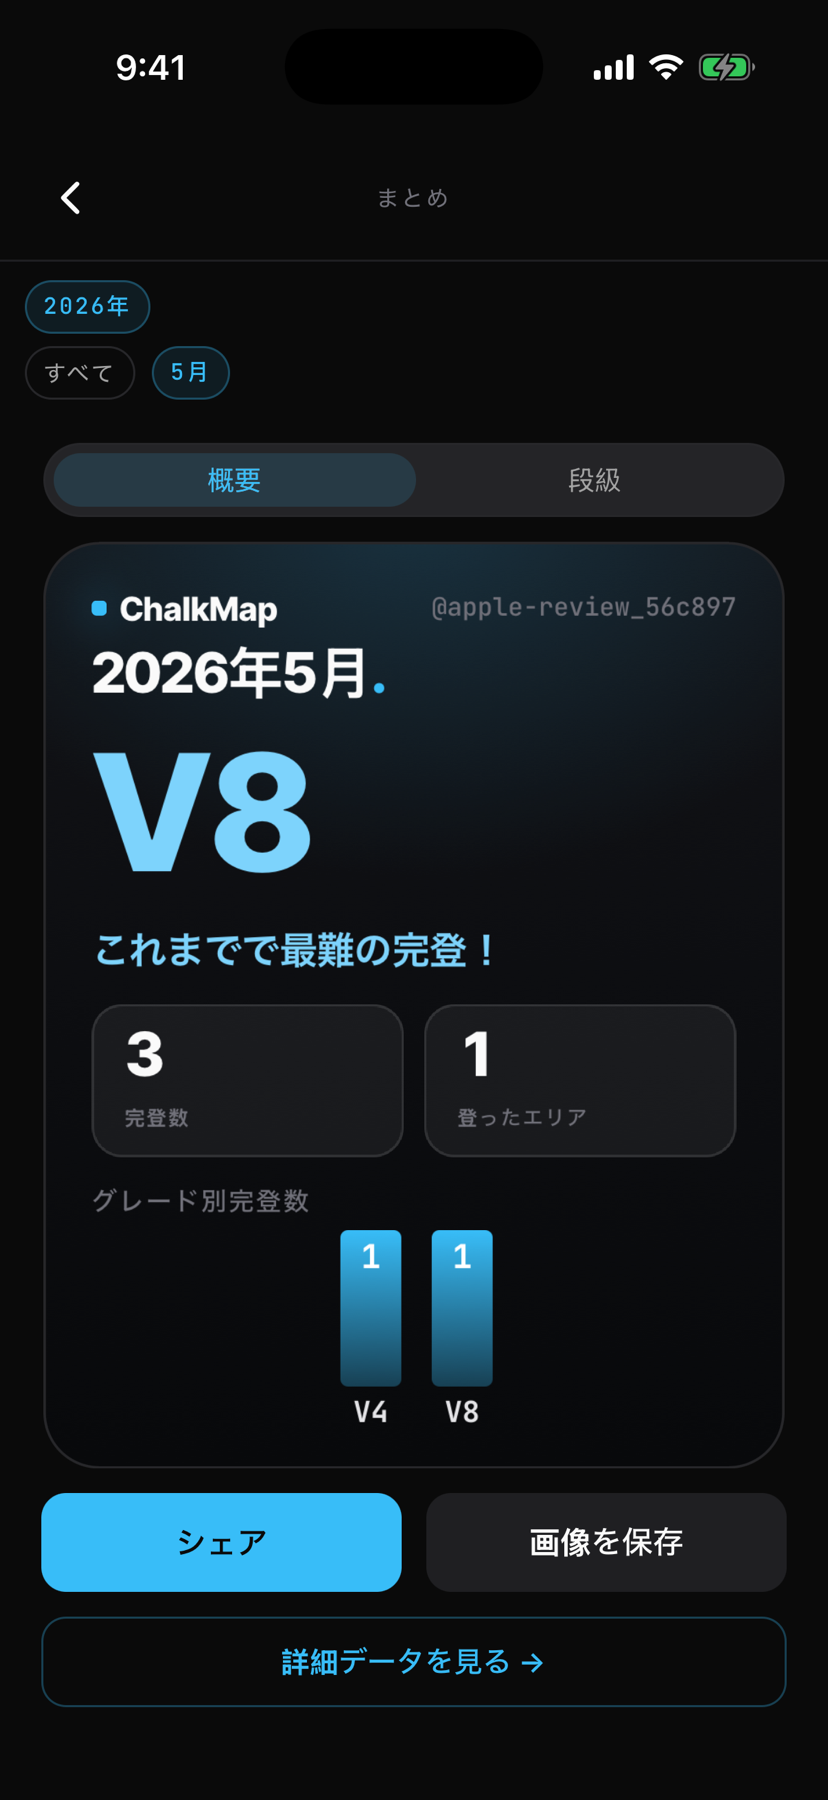
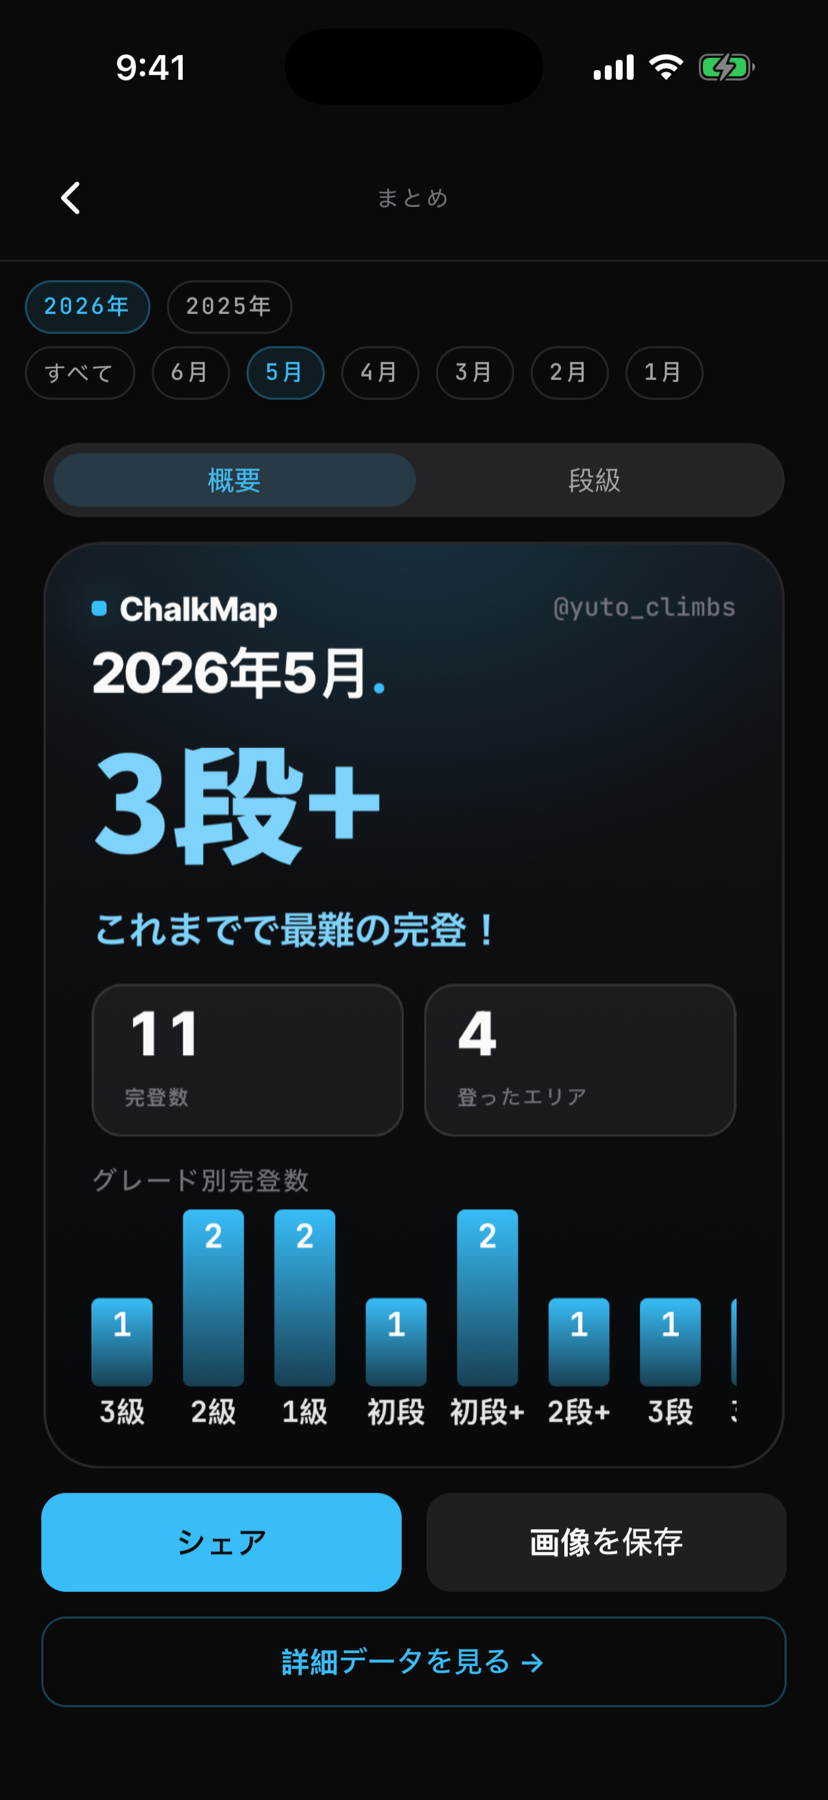
site: copy + UX pass (Google Play, JA 段級 shots, responsive breaks, no em dashes, app-aligned FAQ)
- WHY: market-generic payoff + 'the home your beta never had'
- Hero CTA: add Google Play button (Coming Soon, mirrors App Store)
- In-app rail: JA screenshots now use 段級 grading (recap 3段+, line 公式2段), matching the app
- Line breaks: responsive language-aware auto-balance (text-wrap balance/pretty + JA kinsoku/auto-phrase)
- Copy fixes: クライミングエリアへのリスペクト, みなさん, 着地→下地 (x3)
- Remove ALL em dashes site-wide (EN + JA)
- FAQ: de-conflate creator vs establisher; align to app terms (creator/作成者, co-establisher/共同開拓者, guest/ゲスト, establisher/開拓者, FA/初登者, Manage Access)

diff --git a/index.html b/index.html
@@ -3,12 +3,12 @@
 <head>
   <meta charset="UTF-8">
   <meta name="viewport" content="width=device-width, initial-scale=1.0">
-  <title>ChalkMap — The hub for outdoor bouldering</title>
-  <meta name="description" content="Every crag, problem, and beta in one place — kept current by the community, with establishers in control.">
+  <title>ChalkMap: The hub for outdoor bouldering</title>
+  <meta name="description" content="Every crag, problem, and beta in one place, kept current by the community, with establishers in control.">
   <link rel="icon" type="image/png" href="assets/images/chalkmap_logo.png">
   <link rel="apple-touch-icon" href="https://chalkmap.com/apple-touch-icon.png">
-  <meta property="og:title" content="ChalkMap — The hub for outdoor bouldering">
-  <meta property="og:description" content="Every crag, problem, and beta in one place — kept current by the community, with establishers in control.">
+  <meta property="og:title" content="ChalkMap: The hub for outdoor bouldering">
+  <meta property="og:description" content="Every crag, problem, and beta in one place, kept current by the community, with establishers in control.">
   <meta property="og:image" content="https://chalkmap.com/assets/images/og-icon-basshi.png">
   <meta property="og:url" content="https://chalkmap.com/">
   <meta property="og:type" content="website">
@@ -53,12 +53,17 @@
       <img src="assets/images/chalkmap_logo.png" alt="ChalkMap" class="hero-logo">
       <h1>ChalkMap<span class="dot">.</span></h1>
       <p class="tagline" data-en="The hub for outdoor bouldering" data-ja="外岩ボルダリングの情報を、ひとつの場所に。"></p>
-      <p class="subtitle" data-en="Every crag, every problem, every bit of local knowledge — in one place, kept current by the community." data-ja="エリアも、課題も、登り方も。クライマーの手で集めて、いつも最新に。"></p>
-      <p class="description" data-en="Outdoor bouldering info is scattered across guidebooks, posts, videos, and people's memories — so it's needlessly hard to find boulders, know which line is right, or judge the risk before you pull on. ChalkMap brings it together: discover crags on a map, see community-consensus grades and beta with the original send videos, and log your own climbs — while establishers keep full control of what's public and what stays private." data-ja="外岩の情報は、トポやSNS、動画、人づての話に散らばっていて、行きたい課題を探すのも、どのラインが正解なのか確かめるのも、取り付く前に危険かどうか判断するのも、意外と大変です。ChalkMapは、その情報をひとつの場所にまとめるアプリ。地図でエリアを探し、みんなの体感グレードや登り方、完登動画をまとめて確認できて、自分の完登も記録できます。どの情報を公開し、どれを非公開のままにするかは、開拓者がすべて自分で決められます。"></p>
+      <p class="subtitle" data-en="Every crag, every problem, every bit of local knowledge, all in one place, kept current by the community." data-ja="エリアも、課題も、登り方も。クライマーの手で集めて、いつも最新に。"></p>
+      <p class="description" data-en="Outdoor bouldering info is scattered across guidebooks, posts, videos, and people's memories, so it's needlessly hard to find boulders, know which line is right, or judge the risk before you pull on. ChalkMap brings it together: discover crags on a map, see community-consensus grades and beta with the original send videos, and log your own climbs, while establishers keep full control of what's public and what stays private." data-ja="外岩の情報は、トポやSNS、動画、人づての話に散らばっていて、行きたい課題を探すのも、どのラインが正解なのか確かめるのも、取り付く前に危険かどうか判断するのも、意外と大変です。ChalkMapは、その情報をひとつの場所にまとめるアプリ。地図でエリアを探し、みんなの体感グレードや登り方、完登動画をまとめて確認できて、自分の完登も記録できます。どの情報を公開し、どれを非公開のままにするかは、開拓者がすべて自分で決められます。"></p>
       <div class="hero-buttons">
         <a href="#" class="btn btn-primary" onclick="return false;">
           <svg xmlns="http://www.w3.org/2000/svg" viewBox="0 0 24 24" fill="currentColor"><path d="M18.71 19.5c-.83 1.24-1.71 2.45-3.05 2.47-1.34.03-1.77-.79-3.29-.79-1.53 0-2 .77-3.27.82-1.31.05-2.3-1.32-3.14-2.53C4.25 17 2.94 12.45 4.7 9.39c.87-1.52 2.43-2.48 4.12-2.51 1.28-.02 2.5.87 3.29.87.78 0 2.26-1.07 3.8-.91.65.03 2.47.26 3.64 1.98-.09.06-2.17 1.28-2.15 3.81.03 3.02 2.65 4.03 2.68 4.04-.03.07-.42 1.44-1.38 2.83M13 3.5c.73-.83 1.94-1.46 2.94-1.5.13 1.17-.34 2.35-1.04 3.19-.69.85-1.83 1.51-2.95 1.42-.15-1.15.41-2.35 1.05-3.11z"/></svg>
           <span data-en="Download on the App Store" data-ja="App Storeでダウンロード"></span>
+          <span class="btn-note" data-en="(Coming Soon)" data-ja="（近日公開）"></span>
+        </a>
+        <a href="#" class="btn btn-primary" onclick="return false;">
+          <svg xmlns="http://www.w3.org/2000/svg" viewBox="0 0 512 512" fill="currentColor"><path d="M325.3 234.3L104.6 13l280.8 161.2-60.1 60.1zM47 0C34 6.8 25.3 19.2 25.3 35.3v441.3c0 16.1 8.7 28.5 21.7 35.3l256.6-256L47 0zm425.2 225.6l-58.9-34.1-65.7 64.5 65.7 64.5 60.1-34.1c18-14.3 18-46.5-1.2-60.8zM104.6 499l280.8-161.2-60.1-60.1L104.6 499z"/></svg>
+          <span data-en="Get it on Google Play" data-ja="Google Playでダウンロード"></span>
           <span class="btn-note" data-en="(Coming Soon)" data-ja="（近日公開）"></span>
         </a>
         <a href="support.html" class="btn btn-secondary">
@@ -77,9 +82,9 @@
         <h2 data-en="The home that beta never had" data-ja="ChalkMapができた理由"></h2>
       </div>
       <div class="overview-content">
-        <p data-en="If you've climbed outside, you know the feeling: you find a boulder you want to try, and the beta is spread across a guidebook, a few Instagram posts, a YouTube clip, and someone's memory — and half the time you still aren't sure you're on the right line." data-ja="外岩を登る人なら、きっと覚えがあるはずです。登りたい課題を見つけても、その情報はトポやSNS、動画、誰かの記憶の中にバラバラ。しかも、自分が本当に正しいラインを登れているのか、いまひとつ確信が持てない。"></p>
+        <p data-en="If you've climbed outside, you know the feeling: you find a boulder you want to try, and the beta is spread across a guidebook, a few Instagram posts, a YouTube clip, and someone's memory, and half the time you still aren't sure you're on the right line." data-ja="外岩を登る人なら、きっと覚えがあるはずです。登りたい課題を見つけても、その情報はトポやSNS、動画、誰かの記憶の中にバラバラ。しかも、自分が本当に正しいラインを登れているのか、いまひとつ確信が持てない。"></p>
         <br>
-        <p data-en="ChalkMap is the home that information never had. One map. One living record per problem, kept honest and current by the people who actually climb it — the kind of thing that makes you wonder why it didn't exist already." data-ja="ChalkMapは、そんな散らばった情報を「ひとつの場所」にまとめるアプリです。ひとつの地図に、課題ごとのひとつの記録。実際にそこを登る人たちの手で、正確に、最新に保たれていく。「こういうの、なんで今までなかったんだろう」——そう思ってもらえるアプリを目指しています。"></p>
+        <p data-en="ChalkMap is the home your beta never had. One map. One living record per problem, kept honest and current by the people who actually climb it. The kind of thing that just makes sense the moment you use it." data-ja="ChalkMapは、そんな散らばった情報を「ひとつの場所」にまとめるアプリです。ひとつの地図に、課題ごとのひとつの記録。実際にそこを登る人たちの手で、正確に、最新に保たれていく。「こういうの、なんで今までなかったんだろう」。そう思ってもらえるアプリを目指しています。"></p>
       </div>
     </div>
   </section>
@@ -121,35 +126,35 @@
             <svg aria-hidden="true" xmlns="http://www.w3.org/2000/svg" viewBox="0 0 512 512"><path d="M313.27 124.64L198.73 51.36a32 32 0 00-29.28.35L56.51 127.49A16 16 0 0048 141.63v295.8a16 16 0 0023.49 14.14l97.82-63.79a32 32 0 0129.5-.24l111.86 73a32 32 0 0029.27-.11l115.43-75.94a16 16 0 008.63-14.2V74.57a16 16 0 00-23.49-14.14l-98 63.86a32 32 0 01-29.24.35zM328 128v336M184 48v336" fill="none" stroke="currentColor" stroke-linecap="round" stroke-linejoin="round" stroke-width="36"/></svg>
           </div>
           <h3 data-en="Find boulders on a map" data-ja="地図でエリアと課題を探す"></h3>
-          <p data-en="Discover crags and boulders on a map built for outdoor exploration — public areas come with directions, parking, and access notes." data-ja="外岩のためにつくった地図で、行きたいエリアや課題を探せます。公開されているエリアには、行き方・駐車場・アクセスの情報もまとまっています。"></p>
+          <p data-en="Discover crags and boulders on a map built for outdoor exploration. Public areas come with directions, parking, and access notes." data-ja="外岩のためにつくった地図で、行きたいエリアや課題を探せます。公開されているエリアには、行き方・駐車場・アクセスの情報もまとまっています。"></p>
         </div>
         <div class="feature-card">
           <div class="feature-icon">
             <svg aria-hidden="true" xmlns="http://www.w3.org/2000/svg" viewBox="0 0 24 24" fill="none"><circle cx="6" cy="20" r="1.8" fill="currentColor"/><path d="M6 20 C 9 14, 14 12, 18 4" stroke="currentColor" stroke-width="1.8" stroke-linecap="round" stroke-linejoin="round"/><circle cx="18" cy="4" r="2.2" stroke="currentColor" stroke-width="1.8" fill="none"/></svg>
           </div>
           <h3 data-en="The right line, made clear" data-ja="正しいラインがひと目でわかる"></h3>
-          <p data-en="See each problem drawn on the boulder photo with start holds — plus the original send videos from YouTube and Instagram, gathered in one place." data-ja="課題はボルダーの写真の上に、ラインとスタートホールドで表示。完登動画もまとめて見られるので、どこを登るのかで迷いません。"></p>
+          <p data-en="See each problem drawn on the boulder photo with start holds, plus the original send videos from YouTube and Instagram, gathered in one place." data-ja="課題はボルダーの写真の上に、ラインとスタートホールドで表示。完登動画もまとめて見られるので、どこを登るのかで迷いません。"></p>
         </div>
         <div class="feature-card">
           <div class="feature-icon">
             <svg aria-hidden="true" xmlns="http://www.w3.org/2000/svg" viewBox="0 0 512 512"><path d="M402 168c-2.93 40.67-33.1 72-66 72s-63.12-31.32-66-72c-3-42.31 26.37-72 66-72s69 30.46 66 72z" fill="none" stroke="currentColor" stroke-linecap="round" stroke-linejoin="round" stroke-width="36"/><path d="M336 304c-65.17 0-127.84 32.37-143.54 95.41-2.08 8.34 3.15 16.59 11.72 16.59h263.65c8.57 0 13.77-8.25 11.72-16.59C463.85 335.36 401.18 304 336 304z" fill="none" stroke="currentColor" stroke-miterlimit="10" stroke-width="36"/><path d="M200 185.94c-2.34 32.48-26.72 58.06-53 58.06s-50.7-25.57-53-58.06C91.61 152.15 115.34 128 147 128s55.39 24.77 53 57.94z" fill="none" stroke="currentColor" stroke-linecap="round" stroke-linejoin="round" stroke-width="36"/><path d="M206 306c-18.05-8.27-37.93-11.45-59-11.45-52 0-102.1 25.85-114.65 76.2-1.65 6.66 2.53 13.25 9.37 13.25H154" fill="none" stroke="currentColor" stroke-linecap="round" stroke-miterlimit="10" stroke-width="36"/></svg>
           </div>
           <h3 data-en="Community-consensus grades" data-ja="みんなの体感グレード"></h3>
-          <p data-en="Original grades alongside community 'felt grades,' so you know how a problem really climbs — and hold breaks or line changes get shared as they happen." data-ja="初登時のグレードに加えて、登った人たちの体感グレードも見られます。実際の登りごたえがわかり、ホールドの欠けやラインの変化もすぐに共有できます。"></p>
+          <p data-en="Original grades alongside community 'felt grades,' so you know how a problem really climbs, and hold breaks or line changes get shared as they happen." data-ja="初登時のグレードに加えて、登った人たちの体感グレードも見られます。実際の登りごたえがわかり、ホールドの欠けやラインの変化もすぐに共有できます。"></p>
         </div>
         <div class="feature-card">
           <div class="feature-icon">
             <svg aria-hidden="true" xmlns="http://www.w3.org/2000/svg" viewBox="0 0 512 512"><path d="M85.57 446.25h340.86a32 32 0 0028.17-47.17L284.18 82.58c-12.09-22.44-44.27-22.44-56.36 0L57.4 399.08a32 32 0 0028.17 47.17z" fill="none" stroke="currentColor" stroke-linecap="round" stroke-linejoin="round" stroke-width="36"/><path d="M250.26 195.39l5.74 122 5.73-121.95a5.74 5.74 0 00-5.79-6h0a5.74 5.74 0 00-5.68 5.95z" fill="none" stroke="currentColor" stroke-linecap="round" stroke-linejoin="round" stroke-width="36"/><path d="M256 397.25a20 20 0 1120-20 20 20 0 01-20 20z"/></svg>
           </div>
           <h3 data-en="Know the risk before you pull on" data-ja="取り付く前に、危険度がわかる"></h3>
-          <p data-en="Climbers can flag how dangerous a problem is — bad landings, highballs, sketchy spots — so you can make an informed call before getting on it." data-ja="着地の悪さ、ハイボール、危ない箇所——課題のリスクを登った人が知らせてくれるので、取り付く前に自分で判断できます。"></p>
+          <p data-en="Climbers can flag how dangerous a problem is (bad landings, highballs, sketchy spots), so you can make an informed call before getting on it." data-ja="下地の悪さ、ハイボール、危ない箇所など、課題のリスクを登った人が知らせてくれるので、取り付く前に自分で判断できます。"></p>
         </div>
         <div class="feature-card">
           <div class="feature-icon">
             <svg aria-hidden="true" xmlns="http://www.w3.org/2000/svg" viewBox="0 0 24 24" fill="none"><path d="M3 19 L8 12 L12 16 L18 10 L21 19 Z" stroke="currentColor" stroke-width="1.8" stroke-linecap="round" stroke-linejoin="round"/></svg>
           </div>
           <h3 data-en="Built for establishers" data-ja="開拓者のための設計"></h3>
-          <p data-en="Log a crag once and share it on your terms. Keep crags private, invite co-establishers, and see real access data. Your crag, your call." data-ja="エリアの登録は一度だけ。公開の範囲は自分で決められます。非公開のまま使う、信頼できる人を共同開拓者として招く、実際のアクセス状況を見る——あなたのエリアは、あなたの判断で。"></p>
+          <p data-en="Log a crag once and share it on your terms. Keep crags private, invite co-establishers, and see real access data. Your crag, your call." data-ja="エリアの登録は一度だけ。公開の範囲は自分で決められます。非公開のまま使う、信頼できる人を共同開拓者として招く、実際のアクセス状況を見る。あなたのエリアは、あなたの判断で。"></p>
         </div>
         <div class="feature-card">
           <div class="feature-icon">
@@ -169,23 +174,23 @@
         <span class="kicker" data-en="For Establishers" data-ja="FOR ESTABLISHERS"></span>
         <h2 data-en="Your crag, your call" data-ja="あなたのエリアは、あなたの判断で"></h2>
       </div>
-      <p class="establisher-intro" data-en="ChalkMap exists because of establishers — the people who find, clean, and open the crags the rest of us get to climb. We built it to take the load of documenting and sharing off your shoulders, never to take control away from you." data-ja="ChalkMapは、開拓者がいてこそ成り立つアプリです。エリアを見つけ、掃除し、登れる状態にして、みんなに共有してくれる——その記録と共有の手間を、少しでも軽くしたい。そう思ってつくりました。"></p>
+      <p class="establisher-intro" data-en="ChalkMap exists because of establishers: the people who find, clean, and open the crags the rest of us get to climb. We built it to take the load of documenting and sharing off your shoulders, never to take control away from you." data-ja="ChalkMapは、開拓者がいてこそ成り立つアプリです。エリアを見つけ、掃除し、登れる状態にして、みんなに共有してくれる。その記録と共有の手間を、少しでも軽くしたい。そう思ってつくりました。"></p>
       <div class="promise-grid">
         <div class="promise-card">
           <h3 data-en="Private is a promise" data-ja="非公開は、約束です"></h3>
-          <p data-en="A crag you keep private stays completely private. Only the people you invite can see it — full stop." data-ja="非公開にしたエリアは、ずっと非公開のまま。あなたが招いた人だけが見られます。"></p>
+          <p data-en="A crag you keep private stays completely private. Only the people you invite can see it. Full stop." data-ja="非公開にしたエリアは、ずっと非公開のまま。あなたが招いた人だけが見られます。"></p>
         </div>
         <div class="promise-card">
           <h3 data-en="Open it when you're ready" data-ja="公開のタイミングは、自分で"></h3>
-          <p data-en="Make a crag public when the time is right. Invite trusted climbers as co-establishers, and see real access data — who's visiting and how often — so you can decide based on what's actually happening on the ground." data-ja="準備ができたら公開すればいい。信頼できる人を共同開拓者として招いたり、実際のアクセス状況（どれくらいの人が訪れているか）を見たりしながら、現場の様子を見て決められます。"></p>
+          <p data-en="Make a crag public when the time is right. Invite trusted climbers as co-establishers, and see real access data (who's visiting and how often), so you can decide based on what's actually happening on the ground." data-ja="準備ができたら公開すればいい。信頼できる人を共同開拓者として招いたり、実際のアクセス状況（どれくらいの人が訪れているか）を見たりしながら、現場の様子を見て決められます。"></p>
         </div>
         <div class="promise-card">
           <h3 data-en="Change your mind, safely" data-ja="非公開に戻したいときも、安心して"></h3>
-          <p data-en="Need to take a public crag back to private — say an access issue comes up? You can. To protect everyone, un-publishing a public crag goes through a quick review by our team rather than flipping instantly." data-ja="アクセスの問題が起きたなど、公開したエリアを非公開に戻したいとき。それもできます。ただ、公開済みのエリアを非公開に戻すときは、すぐに切り替わるのではなく、運営の確認をはさんでから反映されます。"></p>
+          <p data-en="Need to take a public crag back to private if an access issue comes up? You can. To protect everyone, un-publishing a public crag goes through a quick review by our team rather than flipping instantly." data-ja="アクセスの問題が起きたなど、公開したエリアを非公開に戻したいとき。それもできます。ただ、公開済みのエリアを非公開に戻すときは、すぐに切り替わるのではなく、運営の確認をはさんでから反映されます。"></p>
         </div>
         <div class="promise-card">
-          <h3 data-en="Not a topo — a tool for topos" data-ja="トポの代わりではなく、トポを支える道具に"></h3>
-          <p data-en="ChalkMap isn't a guidebook and won't replace yours. It's an information-sharing platform — and the felt-grade and access data it gathers can make keeping your own material current easier." data-ja="ChalkMapはガイドブックでも、トポの代わりでもありません。あくまで情報を共有する場所です。集まった体感グレードやアクセスの情報は、あなた自身のトポを最新に保つのにも役立ちます。"></p>
+          <h3 data-en="Not a topo, but a tool for topos" data-ja="トポの代わりではなく、トポを支える道具に"></h3>
+          <p data-en="ChalkMap isn't a guidebook and won't replace yours. It's an information-sharing platform, and the felt-grade and access data it gathers can make keeping your own material current easier." data-ja="ChalkMapはガイドブックでも、トポの代わりでもありません。あくまで情報を共有する場所です。集まった体感グレードやアクセスの情報は、あなた自身のトポを最新に保つのにも役立ちます。"></p>
         </div>
       </div>
     </div>
@@ -228,7 +233,7 @@
             <svg aria-hidden="true" xmlns="http://www.w3.org/2000/svg" viewBox="0 0 512 512"><path d="M53.12 199.94l400-151.39a8 8 0 0110.33 10.33l-151.39 400a8 8 0 01-15-.34l-67.4-166.09a16 16 0 00-10.11-10.11L53.46 215a8 8 0 01-.34-15.06zM460 52L227 285" fill="none" stroke="currentColor" stroke-linecap="round" stroke-linejoin="round" stroke-width="36"/></svg>
           </div>
           <h3 data-en="Share" data-ja="共有する"></h3>
-          <p data-en="Add boulders, problems, photos, and how-to so the shared map keeps growing — for the next climber." data-ja="新しい課題や写真、登り方を追加して、クライマーのコミュニティを作り上げる。次に登りに来る人のために。"></p>
+          <p data-en="Add boulders, problems, photos, and how-to so the shared map keeps growing, for the next climber." data-ja="新しい課題や写真、登り方を追加して、クライマーのコミュニティを作り上げる。次に登りに来る人のために。"></p>
         </div>
       </div>
     </div>
@@ -239,11 +244,11 @@
     <div class="container">
       <div class="section-title">
         <span class="kicker" data-en="Community" data-ja="COMMUNITY"></span>
-        <h2 data-en="Climb with respect" data-ja="リスペクトを持って登る"></h2>
+        <h2 data-en="Climb with respect" data-ja="クライミングエリアへのリスペクト"></h2>
         <p data-en="Outdoor climbing only stays open if we look after it. ChalkMap is built to grow the community without overrunning the crags that make it possible." data-ja="外岩は、みんなで大切にしてはじめて、登り続けられる場所です。ChalkMapは、岩場に負担をかけずにクライマーの輪を広げることを大事にしています。"></p>
       </div>
       <div class="guidelines-content">
-        <p data-en="We ask everyone to:" data-ja="みんなにお願いしたいこと："></p>
+        <p data-en="We ask everyone to:" data-ja="みなさんにお願いしたいこと："></p>
         <ul class="guidelines-list">
           <li>
             <svg xmlns="http://www.w3.org/2000/svg" viewBox="0 0 24 24" fill="none" stroke="currentColor" stroke-width="2" stroke-linecap="round" stroke-linejoin="round"><polyline points="20 6 9 17 4 12"/></svg>
@@ -281,23 +286,31 @@
             <span data-en="What is ChalkMap, and how do I get started?" data-ja="ChalkMapとは？どう始めればいいですか？"></span>
             <svg xmlns="http://www.w3.org/2000/svg" viewBox="0 0 24 24" fill="none" stroke="currentColor" stroke-width="2" stroke-linecap="round" stroke-linejoin="round"><polyline points="6 9 12 15 18 9"/></svg>
           </button>
-          <div class="faq-answer"><div class="faq-answer-inner" data-en="ChalkMap is a community-built information platform for outdoor bouldering. Every crag, boulder, and problem on the map is contributed and kept current by the climbers who actually climb there — grades, photos, line drawings, danger notes, and local access info in one place. To get started, download the app, create a free account, and open the map to explore crags near you. You can browse and log climbs right away; adding content is available once you're signed in." data-ja="ChalkMapは、外岩ボルダリングのためのコミュニティ型情報プラットフォームです。地図上のエリア・ボルダー・課題はすべて、実際にそこで登るクライマーが投稿し、最新に保っています——グレード、写真、ライン、危険度、アクセス情報をひとつに。まずはアプリをダウンロードして無料アカウントを作成し、地図を開いて近くのエリアを探してみてください。閲覧と完登の記録はすぐに使えます。コンテンツの追加はサインイン後に可能です。"></div></div>
+          <div class="faq-answer"><div class="faq-answer-inner" data-en="ChalkMap is a community-built information platform for outdoor bouldering. Every crag, boulder, and problem on the map is contributed and kept current by the climbers who actually climb there: grades, photos, line drawings, danger notes, and local access info in one place. To get started, download the app, create a free account, and open the map to explore crags near you. You can browse and log climbs right away; adding content is available once you're signed in." data-ja="ChalkMapは、外岩ボルダリングのためのコミュニティ型情報プラットフォームです。地図上のエリア・ボルダー・課題はすべて、実際にそこで登るクライマーが投稿し、最新に保っています。グレード、写真、ライン、危険度、アクセス情報がひとつにまとまっています。まずはアプリをダウンロードして無料アカウントを作成し、地図を開いて近くのエリアを探してみてください。閲覧と完登の記録はすぐに使えます。コンテンツの追加はサインイン後に可能です。"></div></div>
         </div>
 
         <div class="faq-item">
           <button class="faq-question" aria-expanded="false">
-            <span data-en="How do I add content — crags, boulders, problems, and photos?" data-ja="エリアやボルダー、課題、写真はどうやって追加しますか？"></span>
+            <span data-en="How do I add content: crags, boulders, problems, and photos?" data-ja="エリアやボルダー、課題、写真はどうやって追加しますか？"></span>
             <svg xmlns="http://www.w3.org/2000/svg" viewBox="0 0 24 24" fill="none" stroke="currentColor" stroke-width="2" stroke-linecap="round" stroke-linejoin="round"><polyline points="6 9 12 15 18 9"/></svg>
           </button>
-          <div class="faq-answer"><div class="faq-answer-inner" data-en="Tap the + button on the map or crag detail screen to add a new crag, boulder, problem, or parking spot. All new content starts private — only you can see it until you choose to make it public. When you're ready to share, tap Make public and the app runs a quick content check; if it passes, the item goes live on the public map. Photos can be added to any boulder or crag from the detail screen." data-ja="地図またはエリア詳細画面の「＋」ボタンから、新しいエリア・ボルダー・課題・駐車場を追加できます。新しく追加した情報はすべて非公開から始まり、公開するまで自分にしか見えません。共有する準備ができたら「公開する」をタップ——簡単な内容チェックを通過すると、公開マップに表示されます。写真はボルダーやエリアの詳細画面からいつでも追加できます。"></div></div>
+          <div class="faq-answer"><div class="faq-answer-inner" data-en="Tap the + button on the map or crag detail screen to add a new crag, boulder, problem, or parking spot. All new content starts private, and only you can see it until you choose to make it public. When you're ready to share, tap Make public and the app runs a quick content check; if it passes, the item goes live on the public map. Photos can be added to any boulder or crag from the detail screen." data-ja="地図またはエリア詳細画面の「＋」ボタンから、新しいエリア・ボルダー・課題・駐車場を追加できます。新しく追加した情報はすべて非公開から始まり、公開するまで自分にしか見えません。共有する準備ができたら「公開する」をタップします。簡単な内容チェックを通過すると、公開マップに表示されます。写真はボルダーやエリアの詳細画面からいつでも追加できます。"></div></div>
         </div>
 
         <div class="faq-item">
           <button class="faq-question" aria-expanded="false">
-            <span data-en="What is crag establishment? Establisher, co-establishers, and guests" data-ja="エリアの開拓者・共同開拓者・ゲストの違いは？"></span>
+            <span data-en="Who can add to a crag? Creator, co-establishers, and guests" data-ja="エリアに追加できるのは誰？（作成者・共同開拓者・ゲスト）"></span>
             <svg xmlns="http://www.w3.org/2000/svg" viewBox="0 0 24 24" fill="none" stroke="currentColor" stroke-width="2" stroke-linecap="round" stroke-linejoin="round"><polyline points="6 9 12 15 18 9"/></svg>
           </button>
-          <div class="faq-answer"><div class="faq-answer-inner" data-en="Every crag has one establisher — the person who created it and holds full control. The establisher can invite other climbers as co-establishers (who can add boulders and content) or as guests (who can view the crag and log climbs, but cannot add content). On a public crag, any signed-in climber can add content. On a private crag, only the establisher and co-establishers can add; guests get read-only access." data-ja="どのエリアにも、作成者である開拓者が一人います。開拓者はそのエリアの全権を持ち、他のクライマーを共同開拓者（ボルダーや課題を追加できる）またはゲスト（閲覧と完登の記録はできるが、追加はできない）として招待できます。公開エリアでは、サインインしているクライマーなら誰でも情報を追加できます。非公開エリアで追加できるのは開拓者と共同開拓者のみで、ゲストは閲覧のみです。"></div></div>
+          <div class="faq-answer"><div class="faq-answer-inner" data-en="Every crag has a creator: the climber who adds it to ChalkMap and controls it. From Manage Access, the creator can invite other climbers as co-establishers (who can add boulders and problems) or as guests (who can view the crag and log climbs, but not add content). On a public crag, any signed-in climber can add content. On a private crag, only the creator and co-establishers can add; guests get view-and-log access. Being the creator is about managing the crag in the app, which is separate from who is credited as its establisher (see below)." data-ja="どのエリアにも作成者がいます。そのエリアをChalkMapに追加して管理するクライマーです。作成者は「アクセス管理」から、ほかのクライマーを共同開拓者（ボルダーや課題を追加できる）またはゲスト（閲覧と完登の記録はできるが、追加はできない）として招待できます。公開エリアでは、サインインしているクライマーなら誰でも情報を追加できます。非公開エリアで追加できるのは作成者と共同開拓者のみで、ゲストは閲覧と完登の記録のみです。作成者とは、アプリ上でそのエリアを管理する人のことで、開拓者として認定される人とは別です（下記参照）。"></div></div>
+        </div>
+
+        <div class="faq-item">
+          <button class="faq-question" aria-expanded="false">
+            <span data-en="Who is the establisher (FA)? What if I add a line someone else first climbed?" data-ja="開拓者（初登者）とは？自分が初登していないラインを追加するときは？"></span>
+            <svg xmlns="http://www.w3.org/2000/svg" viewBox="0 0 24 24" fill="none" stroke="currentColor" stroke-width="2" stroke-linecap="round" stroke-linejoin="round"><polyline points="6 9 12 15 18 9"/></svg>
+          </button>
+          <div class="faq-answer"><div class="faq-answer-inner" data-en="Establishing is a credit, separate from who created the entry in the app. The establisher is the climber recognized as having established a crag, boulder, or problem; for a problem, that is the first ascensionist (FA). You can claim it yourself (Claim as establisher, or Claim FA), or the creator can set it for the actual climber and send them an establisher invite code. The creator reviews establisher claims. So the climber who creates a crag in the app and the climber credited as its establisher can be the same person, but they don't have to be." data-ja="開拓は功績であり、アプリ上で誰が情報を追加したかとは別です。開拓者とは、そのエリア・ボルダー・課題を開拓したと認定されるクライマーで、課題の場合は初登者（FA）にあたります。自分で「開拓者として申請」「初登者として申請」することもできますし、作成者が実際のクライマーを「開拓者を設定」で設定したり、開拓者コードを発行して渡したりもできます。開拓者の申請は作成者が確認します。つまり、アプリ上でエリアを作成した人と、その開拓者として認定される人は、同じでも、別々でもかまいません。"></div></div>
         </div>
 
         <div class="faq-item">
@@ -305,7 +318,7 @@
             <span data-en="How do I invite people to a private crag?" data-ja="非公開エリアに人を招待するには？"></span>
             <svg xmlns="http://www.w3.org/2000/svg" viewBox="0 0 24 24" fill="none" stroke="currentColor" stroke-width="2" stroke-linecap="round" stroke-linejoin="round"><polyline points="6 9 12 15 18 9"/></svg>
           </button>
-          <div class="faq-answer"><div class="faq-answer-inner" data-en="From the crag's Manage Access screen, tap Invite climbers. You can search by username, invite followers, or generate a single-use invite code (valid 7 days) to share however you like. Invited climbers join as guests by default; you can promote anyone to co-establisher from Manage Access at any time — and change it back later." data-ja="エリアの「アクセス管理」画面から「クライマーを招待」をタップします。ユーザー名で検索する、フォロワーから選ぶ、または7日間有効の使い切り招待コードを発行して好きな方法で共有する——のいずれでも招待できます。招待されたクライマーは最初はゲストとして参加します。アクセス管理からいつでも共同開拓者に昇格でき、後から戻すことも可能です。"></div></div>
+          <div class="faq-answer"><div class="faq-answer-inner" data-en="From the crag's Manage Access screen, tap Invite climbers. You can search by username, invite followers, or generate a single-use invite code (valid 7 days) to share however you like. Invited climbers join as guests by default. You can promote anyone to co-establisher from Manage Access at any time, and change it back later." data-ja="エリアの「アクセス管理」画面から「クライマーを招待」をタップします。ユーザー名で検索する、フォロワーから選ぶ、7日間有効の使い切り招待コードを発行して好きな方法で共有する、のいずれの方法でも招待できます。招待されたクライマーは最初はゲストとして参加します。アクセス管理からいつでも共同開拓者に昇格でき、後から戻すことも可能です。"></div></div>
         </div>
 
         <div class="faq-item">
@@ -313,7 +326,7 @@
             <span data-en="Who can see my content? Public vs. private" data-ja="自分の投稿は誰に見えますか？（公開と非公開）"></span>
             <svg xmlns="http://www.w3.org/2000/svg" viewBox="0 0 24 24" fill="none" stroke="currentColor" stroke-width="2" stroke-linecap="round" stroke-linejoin="round"><polyline points="6 9 12 15 18 9"/></svg>
           </button>
-          <div class="faq-answer"><div class="faq-answer-inner" data-en="When a crag is private, it is invisible to everyone except the establisher, co-establishers, and invited guests — full stop. When a crag is public (after passing review), it appears on the map and in search for everyone. Boulders and problems inherit the visibility of their parent crag.&#10;&#10;If you need to take a public crag back to private — say an access issue arises — you can request that. To protect the community, un-publishing goes through a quick review by our team rather than flipping instantly." data-ja="非公開のエリアは、開拓者・共同開拓者・招待されたゲスト以外には一切見えません。公開エリアは（確認を通過した後）すべてのユーザーの地図と検索に表示されます。ボルダーや課題の公開範囲は、属するエリアに従います。&#10;&#10;アクセス上の問題などで公開エリアを非公開に戻したい場合も、申請できます。コミュニティを守るため、非公開化はすぐには反映されず、運営による確認を経て行われます。"></div></div>
+          <div class="faq-answer"><div class="faq-answer-inner" data-en="When a crag is private, it is invisible to everyone except the creator, co-establishers, and invited guests. When a crag is public (after passing review), it appears on the map and in search for everyone. Boulders and problems inherit the visibility of their parent crag.&#10;&#10;If you need to take a public crag back to private (say an access issue arises), you can request that. To protect the community, un-publishing goes through a quick review by our team rather than flipping instantly." data-ja="非公開のエリアは、作成者・共同開拓者・招待されたゲスト以外には一切見えません。公開エリアは（確認を通過した後）すべてのユーザーの地図と検索に表示されます。ボルダーや課題の公開範囲は、属するエリアに従います。&#10;&#10;アクセス上の問題などで公開エリアを非公開に戻したい場合も、申請できます。コミュニティを守るため、非公開化はすぐには反映されず、運営による確認を経て行われます。"></div></div>
         </div>
 
         <div class="faq-item">
@@ -321,7 +334,7 @@
             <span data-en="How do I report a problem or flag unsafe content?" data-ja="問題のある投稿や危険な情報を報告するには？"></span>
             <svg xmlns="http://www.w3.org/2000/svg" viewBox="0 0 24 24" fill="none" stroke="currentColor" stroke-width="2" stroke-linecap="round" stroke-linejoin="round"><polyline points="6 9 12 15 18 9"/></svg>
           </button>
-          <div class="faq-answer"><div class="faq-answer-inner" data-en="Tap Report on any crag, boulder, problem, parking spot, send, comment, user, or photo, then choose a type: a safety / access concern (closures, dangerous landings, access issues — visible to the community on that content's page), inappropriate content (spam, false info, harassment — goes to the ChalkMap team only), or a removal request. You can attach a photo to safety reports. Once submitted, you'll see a confirmation." data-ja="エリア・ボルダー・課題・駐車場・完登・コメント・ユーザー・写真のどれでも、「報告」から知らせることができます。種類は3つ：安全・アクセスに関する報告（閉鎖、危険な着地、アクセス問題など——その情報のページでコミュニティにも表示されます）、不適切なコンテンツ（スパム、虚偽情報、嫌がらせなど——運営のみに届きます）、削除のリクエスト。安全に関する報告には写真も添付できます。送信後、確認メッセージが表示されます。"></div></div>
+          <div class="faq-answer"><div class="faq-answer-inner" data-en="Tap Report on any crag, boulder, problem, parking spot, send, comment, user, or photo, then choose a type: a safety / access concern (closures, dangerous landings, access issues, visible to the community on that content's page), inappropriate content (spam, false info, harassment, goes to the ChalkMap team only), or a removal request. You can attach a photo to safety reports. Once submitted, you'll see a confirmation." data-ja="エリア・ボルダー・課題・駐車場・完登・コメント・ユーザー・写真のどれでも、「報告」から知らせることができます。種類は3つ：安全・アクセスに関する報告（閉鎖、危険な下地、アクセス問題など、その情報のページでコミュニティにも表示されます）、不適切なコンテンツ（スパム、虚偽情報、嫌がらせなど、運営のみに届きます）、削除のリクエスト。安全に関する報告には写真も添付できます。送信後、確認メッセージが表示されます。"></div></div>
         </div>
 
         <div class="faq-item">
@@ -329,7 +342,7 @@
             <span data-en="How do I delete my account?" data-ja="アカウントを削除するには？"></span>
             <svg xmlns="http://www.w3.org/2000/svg" viewBox="0 0 24 24" fill="none" stroke="currentColor" stroke-width="2" stroke-linecap="round" stroke-linejoin="round"><polyline points="6 9 12 15 18 9"/></svg>
           </button>
-          <div class="faq-answer"><div class="faq-answer-inner" data-en="Go to Profile → Edit → Account → Delete account. The app asks you to re-enter your password, then schedules the deletion with a 30-day grace period — you can sign back in any time within those 30 days to restore your account. After that, your account and personal data are permanently removed." data-ja="プロフィール → 編集 → アカウント → アカウントを削除、の順に進みます。セキュリティのためパスワードを再入力すると、削除が予約されます。30日間の猶予期間中はいつでもサインインし直してアカウントを復元できます。期間を過ぎると、アカウントと個人データは完全に削除されます。"></div></div>
+          <div class="faq-answer"><div class="faq-answer-inner" data-en="Go to Profile → Edit → Account → Delete account. The app asks you to re-enter your password, then schedules the deletion with a 30-day grace period. You can sign back in any time within those 30 days to restore your account. After that, your account and personal data are permanently removed." data-ja="プロフィール → 編集 → アカウント → アカウントを削除、の順に進みます。セキュリティのためパスワードを再入力すると、削除が予約されます。30日間の猶予期間中はいつでもサインインし直してアカウントを復元できます。期間を過ぎると、アカウントと個人データは完全に削除されます。"></div></div>
         </div>
 
         <div class="faq-item">
@@ -337,7 +350,7 @@
             <span data-en="Is ChalkMap free? What does Premium unlock?" data-ja="ChalkMapは無料ですか？Premiumでは何ができますか？"></span>
             <svg xmlns="http://www.w3.org/2000/svg" viewBox="0 0 24 24" fill="none" stroke="currentColor" stroke-width="2" stroke-linecap="round" stroke-linejoin="round"><polyline points="6 9 12 15 18 9"/></svg>
           </button>
-          <div class="faq-answer"><div class="faq-answer-inner" data-en="The core app is free: browsing the map, logging climbs, adding content, following climbers, and all community features. ChalkMap Premium unlocks deeper data and tools — offline crag downloads (map tiles and content for full offline use), Climber Data (your personal analytics — grade distribution, highest-grade progression, total sends over time, by-area breakdowns, and more), establisher access data on the lines and crags you've established, per-crag climbing stats, and advanced insights. You can subscribe any time from the Premium screen in your profile." data-ja="基本機能はすべて無料です：地図の閲覧、完登の記録、コンテンツの追加、クライマーのフォロー、コミュニティ機能。ChalkMap Premiumでは、さらに踏み込んだデータとツールが使えます——エリアの一括ダウンロード（地図タイルごとオフラインで利用可能）、クライマーデータ（自分の記録を分析——グレード分布、最高グレードの推移、期間ごとの完登数、エリア別データなど）、開拓したエリアと課題のアクセスデータ、エリアごとの登攀データ、高度な分析。プロフィールのPremium画面から、いつでも登録できます。"></div></div>
+          <div class="faq-answer"><div class="faq-answer-inner" data-en="The core app is free: browsing the map, logging climbs, adding content, following climbers, and all community features. ChalkMap Premium unlocks deeper data and tools: offline crag downloads (map tiles and content for full offline use), Climber Data (your personal analytics: grade distribution, highest-grade progression, total sends over time, by-area breakdowns, and more), establisher access data on the lines and crags you've established, per-crag climbing stats, and advanced insights. You can subscribe any time from the Premium screen in your profile." data-ja="基本機能はすべて無料です：地図の閲覧、完登の記録、コンテンツの追加、クライマーのフォロー、コミュニティ機能。ChalkMap Premiumでは、さらに踏み込んだデータとツールが使えます：エリアの一括ダウンロード（地図タイルごとオフラインで利用可能）、クライマーデータ（自分の記録を分析できます。グレード分布、最高グレードの推移、期間ごとの完登数、エリア別データなど）、開拓したエリアと課題のアクセスデータ、エリアごとの登攀データ、高度な分析。プロフィールのPremium画面から、いつでも登録できます。"></div></div>
         </div>
 
         <div class="faq-item">
@@ -345,7 +358,7 @@
             <span data-en="How do grades work?" data-ja="グレードはどのように表示されますか？"></span>
             <svg xmlns="http://www.w3.org/2000/svg" viewBox="0 0 24 24" fill="none" stroke="currentColor" stroke-width="2" stroke-linecap="round" stroke-linejoin="round"><polyline points="6 9 12 15 18 9"/></svg>
           </button>
-          <div class="faq-answer"><div class="faq-answer-inner" data-en="Every problem can show three grade scales side by side — V-scale, Japanese 段/級, and Font — so climbers from any tradition can read it at a glance. Set your preferred scale in your settings and it becomes your primary display. Alongside the original grade you'll see the community felt grade — the consensus of climbers who've actually done the problem — so you know whether it's soft, at grade, or sandbagged." data-ja="課題のグレードは、Vグレード・段/級・フレンチ（Font）の3つのスケールを並べて表示できます。普段使っているスケールを設定すれば、それがメイン表示になります。初登時のグレードと並んで、実際にその課題を登ったクライマーたちの体感グレードも表示されるので、「辛め」か「甘め」か、登る前に感覚がつかめます。"></div></div>
+          <div class="faq-answer"><div class="faq-answer-inner" data-en="Every problem can show three grade scales side by side: V-scale, Japanese 段/級, and Font, so climbers from any tradition can read it at a glance. Set your preferred scale in your settings and it becomes your primary display. Alongside the original grade you'll see the community felt grade, the consensus of climbers who've actually done the problem, so you know whether it's soft, at grade, or sandbagged." data-ja="課題のグレードは、Vグレード・段/級・フレンチ（Font）の3つのスケールを並べて表示できます。普段使っているスケールを設定すれば、それがメイン表示になります。初登時のグレードと並んで、実際にその課題を登ったクライマーたちの体感グレードも表示されるので、「辛め」か「甘め」か、登る前に感覚がつかめます。"></div></div>
         </div>
 
         <div class="faq-item">
@@ -353,7 +366,7 @@
             <span data-en="Does ChalkMap work offline?" data-ja="オフラインでも使えますか？"></span>
             <svg xmlns="http://www.w3.org/2000/svg" viewBox="0 0 24 24" fill="none" stroke="currentColor" stroke-width="2" stroke-linecap="round" stroke-linejoin="round"><polyline points="6 9 12 15 18 9"/></svg>
           </button>
-          <div class="faq-answer"><div class="faq-answer-inner" data-en="Yes — the app is built offline-first. Content you've already loaded stays available without signal: crags, boulders, line photos, and logging sends all work offline, and anything you add syncs automatically when you reconnect. Downloading a crag for full offline use — including map tiles — is a Premium feature: tap Download on any crag." data-ja="はい——ChalkMapはオフラインファーストで設計されています。一度読み込んだエリアやボルダー、ラインの写真は電波のない岩場でもそのまま見られ、完登の記録もオフラインで可能です。オフライン中に追加した内容は、再接続時に自動で同期されます。地図タイルまで含めたエリアの一括ダウンロードはPremium機能です——エリア詳細の「ダウンロード」からどうぞ。"></div></div>
+          <div class="faq-answer"><div class="faq-answer-inner" data-en="Yes, the app is built offline-first. Content you've already loaded stays available without signal: crags, boulders, line photos, and logging sends all work offline, and anything you add syncs automatically when you reconnect. Downloading a crag for full offline use (including map tiles) is a Premium feature: tap Download on any crag." data-ja="はい。ChalkMapはオフラインファーストで設計されています。一度読み込んだエリアやボルダー、ラインの写真は電波のない岩場でもそのまま見られ、完登の記録もオフラインで可能です。オフライン中に追加した内容は、再接続時に自動で同期されます。地図タイルまで含めたエリアの一括ダウンロードはPremium機能です。エリア詳細の「ダウンロード」からどうぞ。"></div></div>
         </div>
 
         <div class="faq-item">
@@ -361,7 +374,7 @@
             <span data-en="How does content review and management work?" data-ja="コンテンツの確認・管理はどう行われますか？"></span>
             <svg xmlns="http://www.w3.org/2000/svg" viewBox="0 0 24 24" fill="none" stroke="currentColor" stroke-width="2" stroke-linecap="round" stroke-linejoin="round"><polyline points="6 9 12 15 18 9"/></svg>
           </button>
-          <div class="faq-answer"><div class="faq-answer-inner" data-en="New public content goes through an automated check when you tap Make public — if it passes, it goes live immediately; if something needs fixing, you'll get a note explaining what, and you can edit and resubmit. Community reports are reviewed by the ChalkMap team and resolved based on severity. Safety and access reports stay visible to the community on the relevant page." data-ja="「公開する」をタップすると、新しい公開コンテンツには自動チェックが入ります。通過すればすぐに公開され、修正が必要な場合は理由が表示されるので、編集して再申請できます。コミュニティからの報告は運営が確認し、内容に応じて対応します。安全・アクセスに関する報告は、該当ページでコミュニティにも表示され続けます。"></div></div>
+          <div class="faq-answer"><div class="faq-answer-inner" data-en="New public content goes through an automated check when you tap Make public. If it passes, it goes live immediately; if something needs fixing, you'll get a note explaining what, and you can edit and resubmit. Community reports are reviewed by the ChalkMap team and resolved based on severity. Safety and access reports stay visible to the community on the relevant page." data-ja="「公開する」をタップすると、新しい公開コンテンツには自動チェックが入ります。通過すればすぐに公開され、修正が必要な場合は理由が表示されるので、編集して再申請できます。コミュニティからの報告は運営が確認し、内容に応じて対応します。安全・アクセスに関する報告は、該当ページでコミュニティにも表示され続けます。"></div></div>
         </div>
 
         <div class="faq-item">
@@ -369,7 +382,7 @@
             <span data-en="Is the information on ChalkMap safe to rely on?" data-ja="ChalkMapの情報は信頼して大丈夫ですか？"></span>
             <svg xmlns="http://www.w3.org/2000/svg" viewBox="0 0 24 24" fill="none" stroke="currentColor" stroke-width="2" stroke-linecap="round" stroke-linejoin="round"><polyline points="6 9 12 15 18 9"/></svg>
           </button>
-          <div class="faq-answer"><div class="faq-answer-inner" data-en="ChalkMap is a community-sourced information platform — not a professional topo, and not a substitute for your own judgment. Grades, access status, danger flags, and condition notes are contributed by climbers and aren't professionally verified. Conditions change, holds break, landings deteriorate — always verify current conditions yourself before climbing.&#10;&#10;Climb at your own risk. Always climb within your ability, use appropriate protection, and follow local access rules and landowner wishes." data-ja="ChalkMapはコミュニティ発の情報プラットフォームであり、専門家が監修したトポではありません。あなた自身の判断に代わるものでもありません。グレード、アクセス状況、危険度、コンディションの情報はクライマーの投稿によるもので、専門的な検証はされていません。岩は変化します——ホールドは欠け、着地は荒れ、アクセスルールも変わります。登る前に、必ず現地の最新状況をご自身で確認してください。&#10;&#10;クライミングは自己責任です。自分の力量の範囲で、適切な安全対策をとり、各エリアのルールと土地所有者の意向を守って登ってください。"></div></div>
+          <div class="faq-answer"><div class="faq-answer-inner" data-en="ChalkMap is a community-sourced information platform, not a professional topo, and not a substitute for your own judgment. Grades, access status, danger flags, and condition notes are contributed by climbers and aren't professionally verified. Conditions change, holds break, landings deteriorate, so always verify current conditions yourself before climbing.&#10;&#10;Climb at your own risk. Always climb within your ability, use appropriate protection, and follow local access rules and landowner wishes." data-ja="ChalkMapはコミュニティ発の情報プラットフォームであり、専門家が監修したトポではありません。あなた自身の判断に代わるものでもありません。グレード、アクセス状況、危険度、コンディションの情報はクライマーの投稿によるもので、専門的な検証はされていません。岩は変化します。ホールドは欠け、下地は荒れ、アクセスルールも変わります。登る前に、必ず現地の最新状況をご自身で確認してください。&#10;&#10;クライミングは自己責任です。自分の力量の範囲で、適切な安全対策をとり、各エリアのルールと土地所有者の意向を守って登ってください。"></div></div>
         </div>
 
       </div>
@@ -392,7 +405,7 @@
   </footer>
 
   <script>
-    var TITLES = { en: "ChalkMap — The hub for outdoor bouldering", ja: "ChalkMap — 外岩ボルダリングのハブ" };
+    var TITLES = { en: "ChalkMap: The hub for outdoor bouldering", ja: "ChalkMap: 外岩ボルダリングのハブ" };
 
     function setLang(lang) {
       document.documentElement.lang = lang;
@@ -449,7 +462,7 @@
       });
     });
 
-    // init — honor ?lang= param, then saved preference, default EN
+    // init: honor ?lang= param, then saved preference, default EN
     var params = new URLSearchParams(location.search);
     var saved = null;
     try { saved = localStorage.getItem('cmLang'); } catch (e) {}

diff --git a/assets/style.css b/assets/style.css
@@ -106,6 +106,34 @@ section { padding: 104px 0; position: relative; }
 }
 .section-title p { color: var(--text-secondary); max-width: 660px; margin: 18px auto 0; font-size: 1.0625rem; }
 
+/* ===== Responsive, language-aware line-breaking =====
+   Headings + short blocks balance their lines evenly; paragraphs use
+   `pretty` for better last-line / orphan handling. Both re-flow at every
+   viewport width, so break points adapt to PC vs phone automatically —
+   no manual <br> required. Japanese additionally gets kinsoku
+   (line-break: strict) + phrase-aware CJK breaking (word-break:
+   auto-phrase — progressive enhancement; ignored where unsupported). */
+.hero h1,
+.hero .tagline,
+.hero .subtitle,
+.kicker,
+.section-title h2 { text-wrap: balance; }
+
+.hero .description,
+.section-title p,
+.overview-content p { text-wrap: pretty; }
+
+body[data-lang="ja"] .hero .tagline,
+body[data-lang="ja"] .hero .subtitle,
+body[data-lang="ja"] .hero .description,
+body[data-lang="ja"] .kicker,
+body[data-lang="ja"] .section-title h2,
+body[data-lang="ja"] .section-title p,
+body[data-lang="ja"] .overview-content p {
+  line-break: strict;
+  word-break: auto-phrase;
+}
+
 /* (topo-contour backdrop removed 2026-06-11 — owner: "remove the weird circles") */
 .topo-bg { position: relative; overflow: hidden; }
 